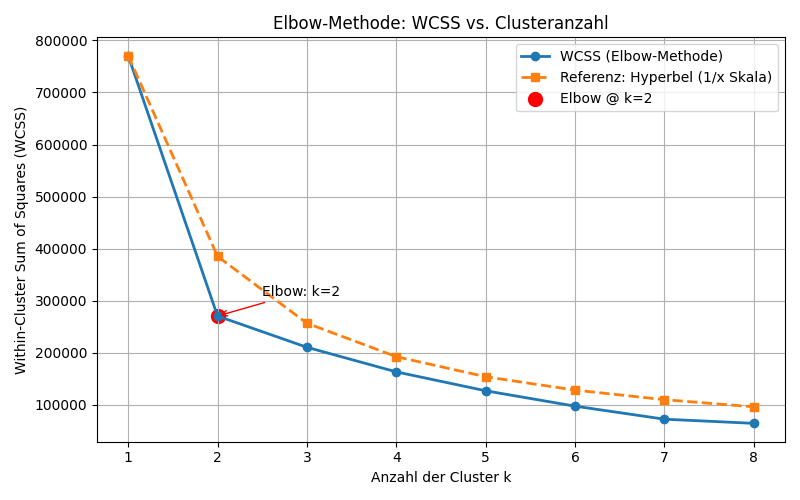
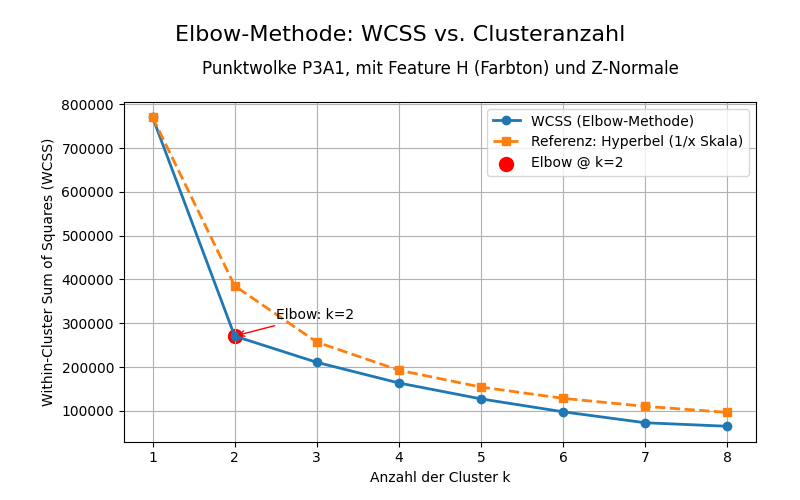
Elbow fertig Vis

diff --git a/arbeitspakete/01_klassifizierung/05_KMeans/elbow.py b/arbeitspakete/01_klassifizierung/05_KMeans/elbow.py
@@ -19,7 +19,7 @@ wcss = []
 k_values = np.arange(1, 9)
 for k in k_values:
     kmeans = KMeans(n_clusters=k, random_state=42, n_init=10)
-    kmeans.fit(df[["Hue (0-1)"]])
+    kmeans.fit(df[["Hue (0-1)","Z scan dir"]])
     wcss.append(kmeans.inertia_)
 
 # 3. Hyperbel-Referenz (Startwert WCSS_1 geteilt durch k)
@@ -59,10 +59,10 @@ ax.set_xlabel("Anzahl der Cluster k")
 ax.set_ylabel("Within-Cluster Sum of Squares (WCSS)")
 
 # Haupttitel und Untertitel
-fig.suptitle("Elbow-Methode: WCSS vs. Clusteranzahl", fontsize=16)
-ax.set_title("Punktwolke P3A1, mit Feature H (Farbton)", fontsize=12, pad=10)
+fig.suptitle("Elbow-Methode: WCSS vs. Clusteranzahl", fontsize=16, y=0.95)
+ax.set_title("Punktwolke P3A1, mit Feature H (Farbton) und Z-Normale", fontsize=12, pad=20)
 
 ax.grid(True)
 ax.legend()
-plt.tight_layout(rect=[0, 0, 1, 0.92])  # Platz für suptitle schaffen
+plt.tight_layout(rect=[0, 0, 1, 0.98])  # Platz für suptitle schaffen
 plt.show()
